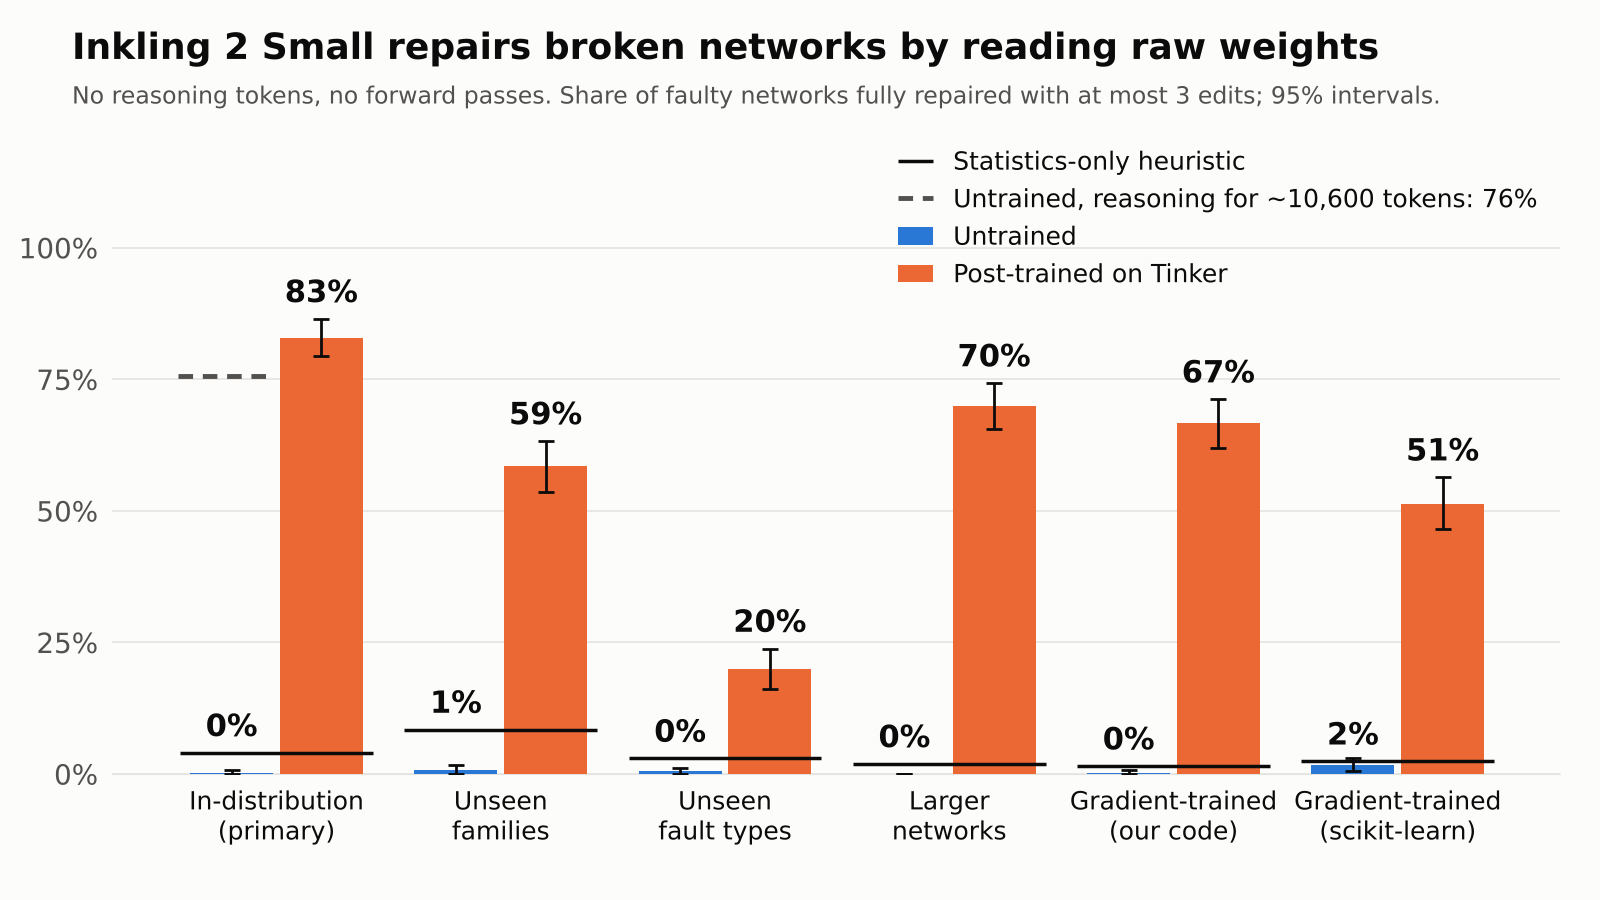
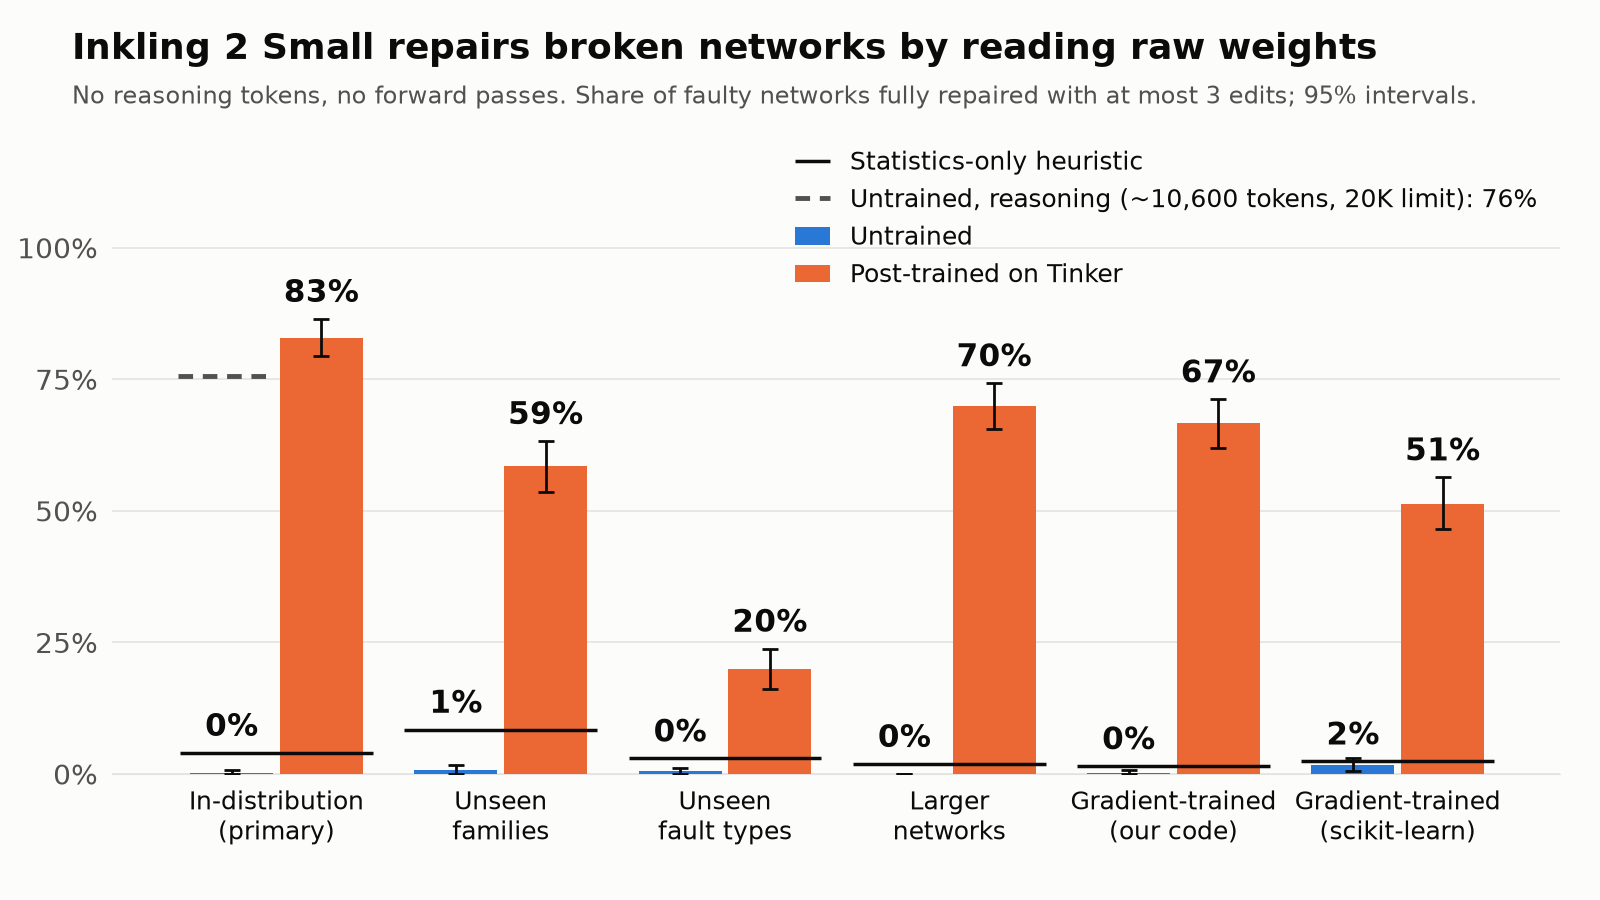
Chart: the reasoning reference is labelled with its 20,000-token limit

diff --git a/weightgym/plot.py b/weightgym/plot.py
@@ -46,7 +46,7 @@ def main() -> None:
     ap.add_argument("--marker-arm", default="baseline_outlier")
     ap.add_argument("--marker-label", default="Statistics-only heuristic")
     ap.add_argument("--ref-arm", default="untrained_thinking")
-    ap.add_argument("--ref-label", default="Untrained, reasoning for ~{tok:,} tokens")
+    ap.add_argument("--ref-label", default="Untrained, reasoning (~{tok:,} tokens, 20K limit)")
     a = ap.parse_args()
     t = load(a.table)
     arms, labels = a.arms.split(","), a.labels.split(",")
